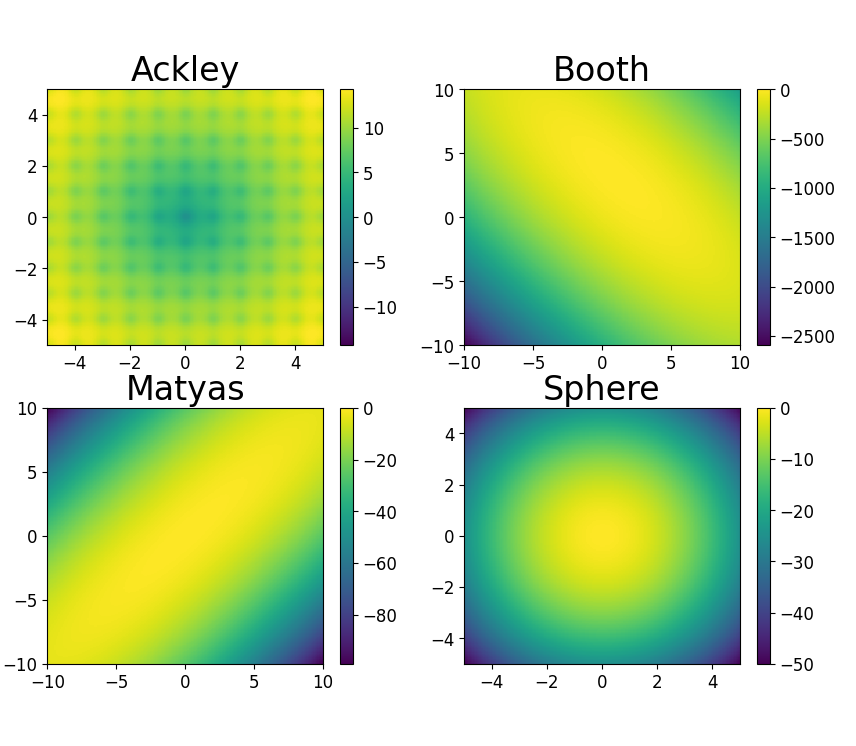
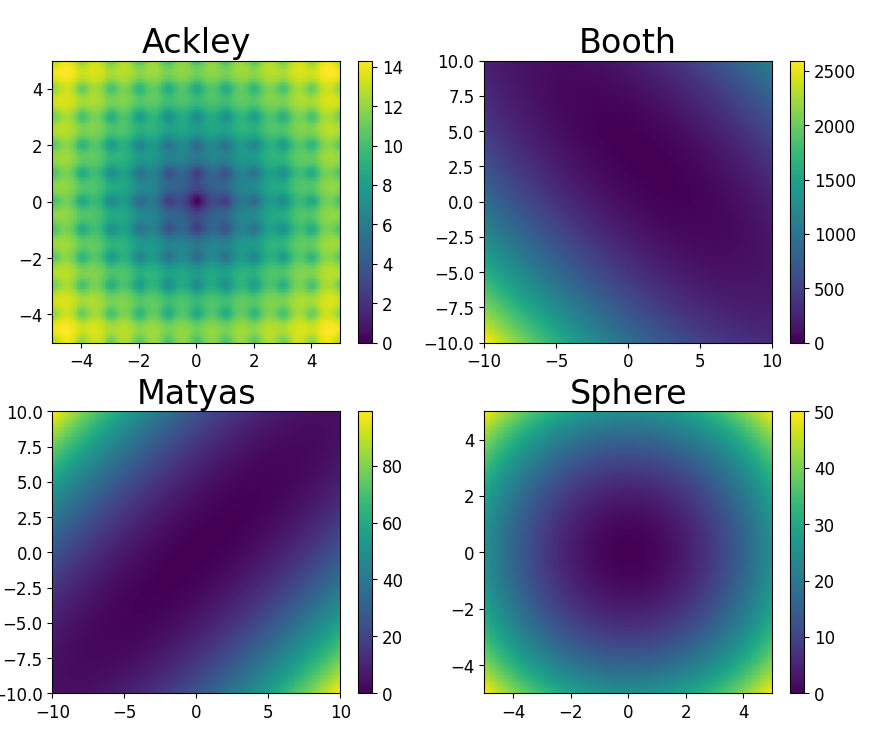
replotted

diff --git a/BO/tests/difficult_functions/plot_difficult_functions.py b/BO/tests/difficult_functions/plot_difficult_functions.py
@@ -18,7 +18,7 @@ z = -20.0 * np.exp(-0.2 * np.sqrt(0.5 * (x**2 + y**2)))-np.exp(0.5 * (np.cos(2 *
 z = z[:-1, :-1]
 z_min, z_max = -np.abs(z).max(), np.abs(z).max()
 
-c = axs[0,0].pcolormesh(x, y, z, vmin=z_min, vmax=z_max)
+c = axs[0,0].pcolormesh(x, y, z, vmin=0, vmax=z_max)
 axs[0,0].set_title('Ackley', size=24)
 axs[0,0].axis([x.min(), x.max(), y.min(), y.max()])
 fig.colorbar(c, ax=axs[0,0])
@@ -30,11 +30,11 @@ def Booth(x, y):
     """
     return  - (x+2*y-7)**2 - (2*x+y-5)**2
 y, x = np.meshgrid(np.linspace(-10, 10, 200), np.linspace(-10, 10, 200))
-z = - (x+2*y-7)**2 - (2*x+y-5)**2
+z = (x+2*y-7)**2 + (2*x+y-5)**2
 z = z[:-1, :-1]
 z_min, z_max = -np.abs(z).max(), np.abs(z).max()
 
-c = axs[0,1].pcolormesh(x, y, z, vmin=z_min, vmax=0)
+c = axs[0,1].pcolormesh(x, y, z, vmin=0, vmax=z_max)
 axs[0,1].set_title('Booth', size=24)
 axs[0,1].axis([x.min(), x.max(), y.min(), y.max()])
 fig.colorbar(c, ax=axs[0,1])
@@ -46,11 +46,11 @@ def Matyas(x, y):
     """
     return  - (0.26*(x**2+y**2)-0.48*x*y)
 y, x = np.meshgrid(np.linspace(-10, 10, 200), np.linspace(-10, 10, 200))
-z = - (0.26*(x**2+y**2)-0.48*x*y)
+z = (0.26*(x**2+y**2)-0.48*x*y)
 z = z[:-1, :-1]
 z_min, z_max = -np.abs(z).max(), np.abs(z).max()
 
-c = axs[1,0].pcolormesh(x, y, z, vmin=z_min, vmax=0)
+c = axs[1,0].pcolormesh(x, y, z, vmin=0, vmax=z_max)
 axs[1,0].set_title('Matyas', size=24)
 axs[1,0].axis([x.min(), x.max(), y.min(), y.max()])
 fig.colorbar(c, ax=axs[1,0])
@@ -61,11 +61,11 @@ def Sphere(x, y):
     """
     return -(x**2+y**2)
 y, x = np.meshgrid(np.linspace(-5, 5, 200), np.linspace(-5, 5, 200))
-z = -(x**2+y**2)
+z = (x**2+y**2)
 z = z[:-1, :-1]
 z_min, z_max = -np.abs(z).max(), np.abs(z).max()
 
-c = axs[1,1].pcolormesh(x, y, z, vmin=z_min, vmax=0)
+c = axs[1,1].pcolormesh(x, y, z, vmin=0, vmax=z_max)
 axs[1,1].set_title('Sphere', size=24)
 axs[1,1].axis([x.min(), x.max(), y.min(), y.max()])
 fig.colorbar(c, ax=axs[1,1])
